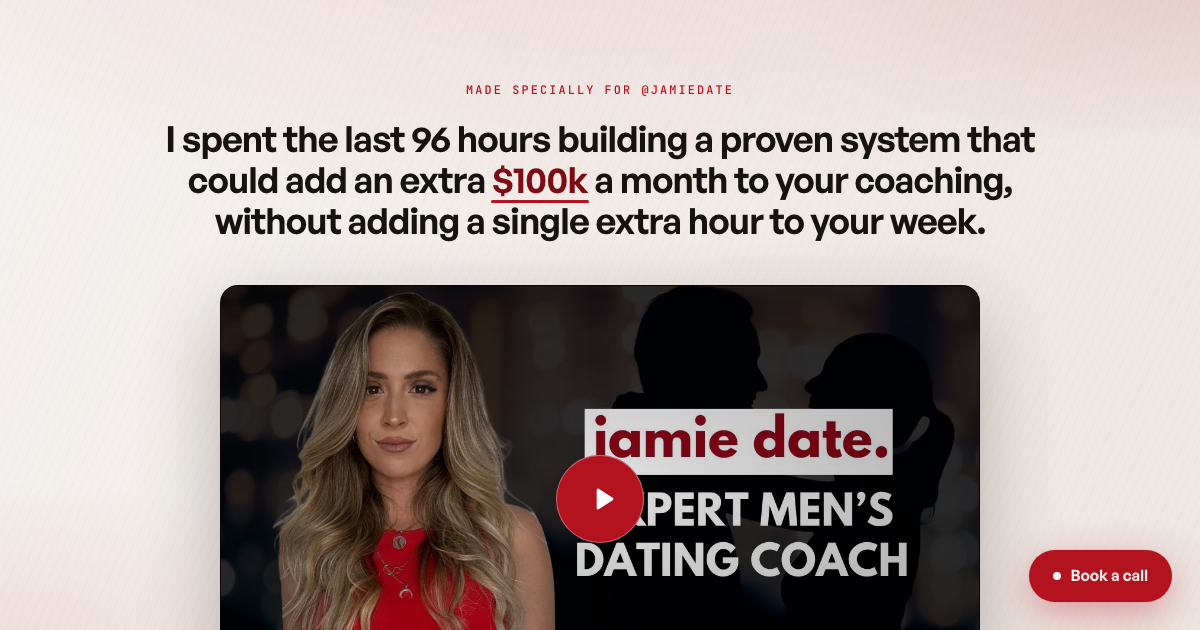
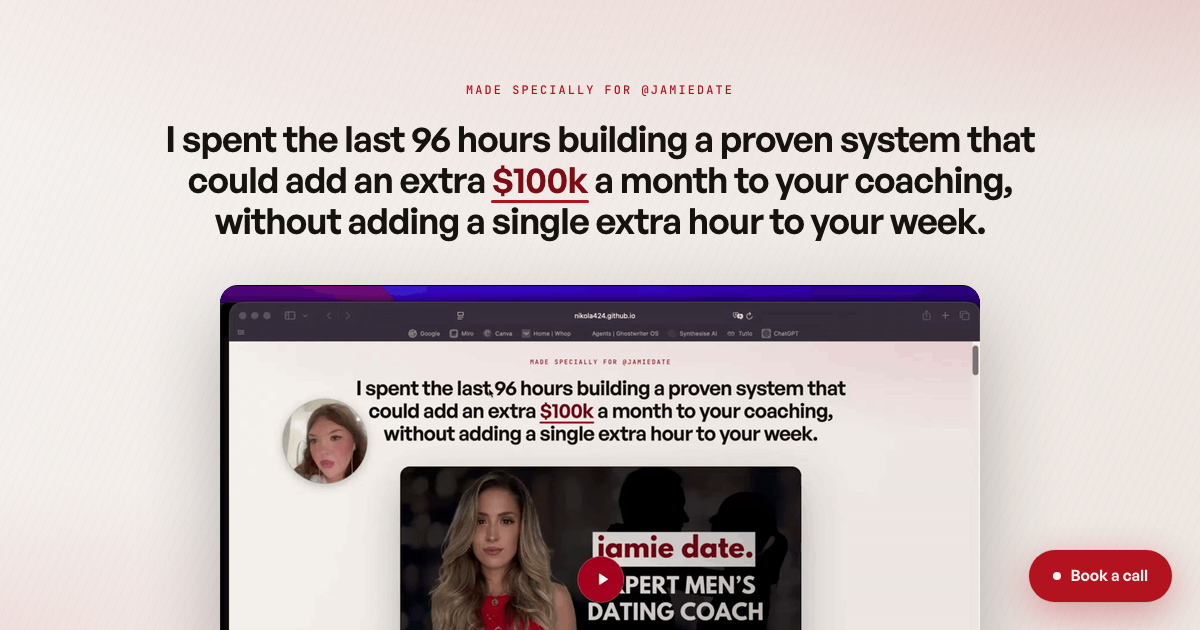
OG preview shows the Loom frame

diff --git a/index.html b/index.html
@@ -8,14 +8,14 @@
   <meta name="robots" content="noindex" />
   <meta property="og:title" content="Jamie, adding an extra $100k/mo to your coaching" />
   <meta property="og:description" content="Jamie, adding an extra $100k/mo to your coaching" />
-  <meta property="og:image" content="https://nikola424.github.io/for-jamie/og.png?v=5" />
+  <meta property="og:image" content="https://nikola424.github.io/for-jamie/og.png?v=6" />
   <meta property="og:image:width" content="1200" />
   <meta property="og:image:height" content="630" />
   <meta property="og:url" content="https://nikola424.github.io/for-jamie/" />
   <meta property="og:type" content="website" />
   <meta name="twitter:card" content="summary_large_image" />
   <meta name="twitter:title" content="Jamie, adding an extra $100k/mo to your coaching" />
-  <meta name="twitter:image" content="https://nikola424.github.io/for-jamie/og.png?v=5" />
+  <meta name="twitter:image" content="https://nikola424.github.io/for-jamie/og.png?v=6" />
   <!-- Generated per build from the PROSPECT'S logo: node scripts/make_favicon.js {folder} -->
   <link rel="icon" href="favicon.png" type="image/png" />
   <link rel="apple-touch-icon" href="apple-touch-icon.png" />
